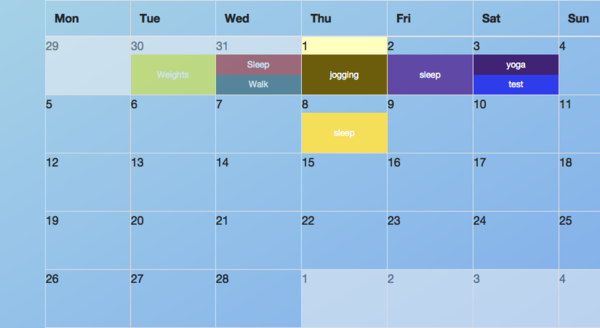
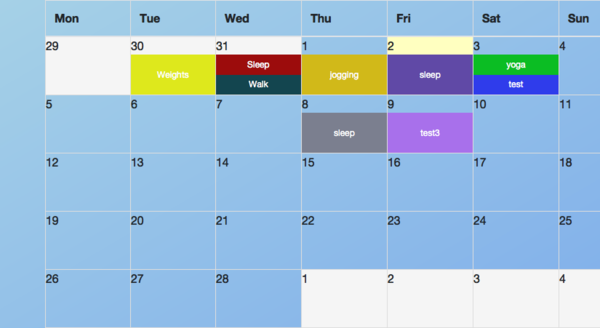
added loading animation while taking the screenshot, fixed counter problem in record form

Changed region(s): [[0.06, 0.0915, 0.93, 0.3049], [0.48, 0.8232, 1.0, 1.0], [0.48, 0.3354, 0.81, 0.4878]]

diff --git a/app/assets/stylesheets/meetings.scss b/app/assets/stylesheets/meetings.scss
@@ -20,7 +20,7 @@
 
   .next-month, .prev-month {
     background-color: whitesmoke;
-    opacity: 0.5;
+    // opacity: 0.5;
   }
   .current-month {}
 
@@ -68,6 +68,58 @@ td.day {
   padding: 5px;
 
 }
+// Loading animation 
+
+.spinner {
+  margin: 100px auto;
+  width: 40px;
+  height: 40px;
+  position: relative;
+}
+
+.cube1, .cube2 {
+  background-color: white;
+  width: 30px;
+  height: 30px;
+  position: absolute;
+  top: 0;
+  left: 0;
+
+  -webkit-animation: sk-cubemove 1.8s infinite ease-in-out;
+  animation: sk-cubemove 1.8s infinite ease-in-out;
+}
+
+.cube2 {
+  -webkit-animation-delay: -0.9s;
+  animation-delay: -0.9s;
+}
+
+@-webkit-keyframes sk-cubemove {
+  25% { -webkit-transform: translateX(42px) rotate(-90deg) scale(0.5) }
+  50% { -webkit-transform: translateX(42px) translateY(42px) rotate(-180deg) }
+  75% { -webkit-transform: translateX(0px) translateY(42px) rotate(-270deg) scale(0.5) }
+  100% { -webkit-transform: rotate(-360deg) }
+}
+
+@keyframes sk-cubemove {
+  25% {
+    transform: translateX(42px) rotate(-90deg) scale(0.5);
+    -webkit-transform: translateX(42px) rotate(-90deg) scale(0.5);
+  } 50% {
+    transform: translateX(42px) translateY(42px) rotate(-179deg);
+    -webkit-transform: translateX(42px) translateY(42px) rotate(-179deg);
+  } 50.1% {
+    transform: translateX(42px) translateY(42px) rotate(-180deg);
+    -webkit-transform: translateX(42px) translateY(42px) rotate(-180deg);
+  } 75% {
+    transform: translateX(0px) translateY(42px) rotate(-270deg) scale(0.5);
+    -webkit-transform: translateX(0px) translateY(42px) rotate(-270deg) scale(0.5);
+  } 100% {
+    transform: rotate(-360deg);
+    -webkit-transform: rotate(-360deg);
+  }
+}
+
 
 // --------------------------------------------------  Record Form
 .record-card{
@@ -138,8 +190,6 @@ td.day {
   }
 
 //-----------------------------------------------------------------
-
-
 
 
 //

diff --git a/app/assets/javascripts/record.js b/app/assets/javascripts/record.js
@@ -26,7 +26,7 @@ $( document ).ready(function() {
   	setTimeout(function(){
   		$('.nested-fields #mini').minicolors();
       }, 10);
-  }); 
+  });
 
 // Show/Hide date on a day-------------------------------------------
 
@@ -85,9 +85,15 @@ $( document ).ready(function() {
 
 // Limit how many fields can be added in new form ------------
 // event delegation
+
+// The first remove button will never shown
   const r = $('.remove_fields');
   const a = $('.add_fields');
   let c = 1;
+  r.hide();
+
+// click on the parent ( #options ) and check if the actual thing we clicked on
+// i.e. the 'target' has the class 'remove_fields' or 'add_fields'
   $('#options').click(function (e) {
     if (e.target.classList.contains('remove_fields')) {
       c--;
@@ -97,7 +103,6 @@ $( document ).ready(function() {
     }
     console.log(c);
     c >= 3 ? a.hide() : a.show();
-    c <= 1 ? r.hide() : r.show();
   })
 
 // -----------------------------------------------------------------

diff --git a/README.md b/README.md
@@ -107,14 +107,21 @@
 
 
 * [ to-do / question]------------------------------------------------
-- loading animation when something loads in the background
+- when render the new record form , when i click on exercise input field
+the `- exercise` tab disappears. want to make it not appeared in the first place
+
+- click on a record in the previous month, the modal shows but freezes
+(opacity thing)
+
+- after changing format of record form, the autocomplete does not work
 
 - font awesome does not work ( `_month_calendar.html.erb` )
-- after changing format of record form, the autocomplete does not work
-- when render the new record form , when i click on exercise input field
-  the `- exercise` tab disappears. want to make it not appeared in the first place
+
 - news feed, articles with Pictures, the pictures sometimes will become very big
 
+- loading animation when something loads in the background
+
+- add `choose another date` to the record form
 - get rid of unnecessary gems
 
 - add custom flash messages!
